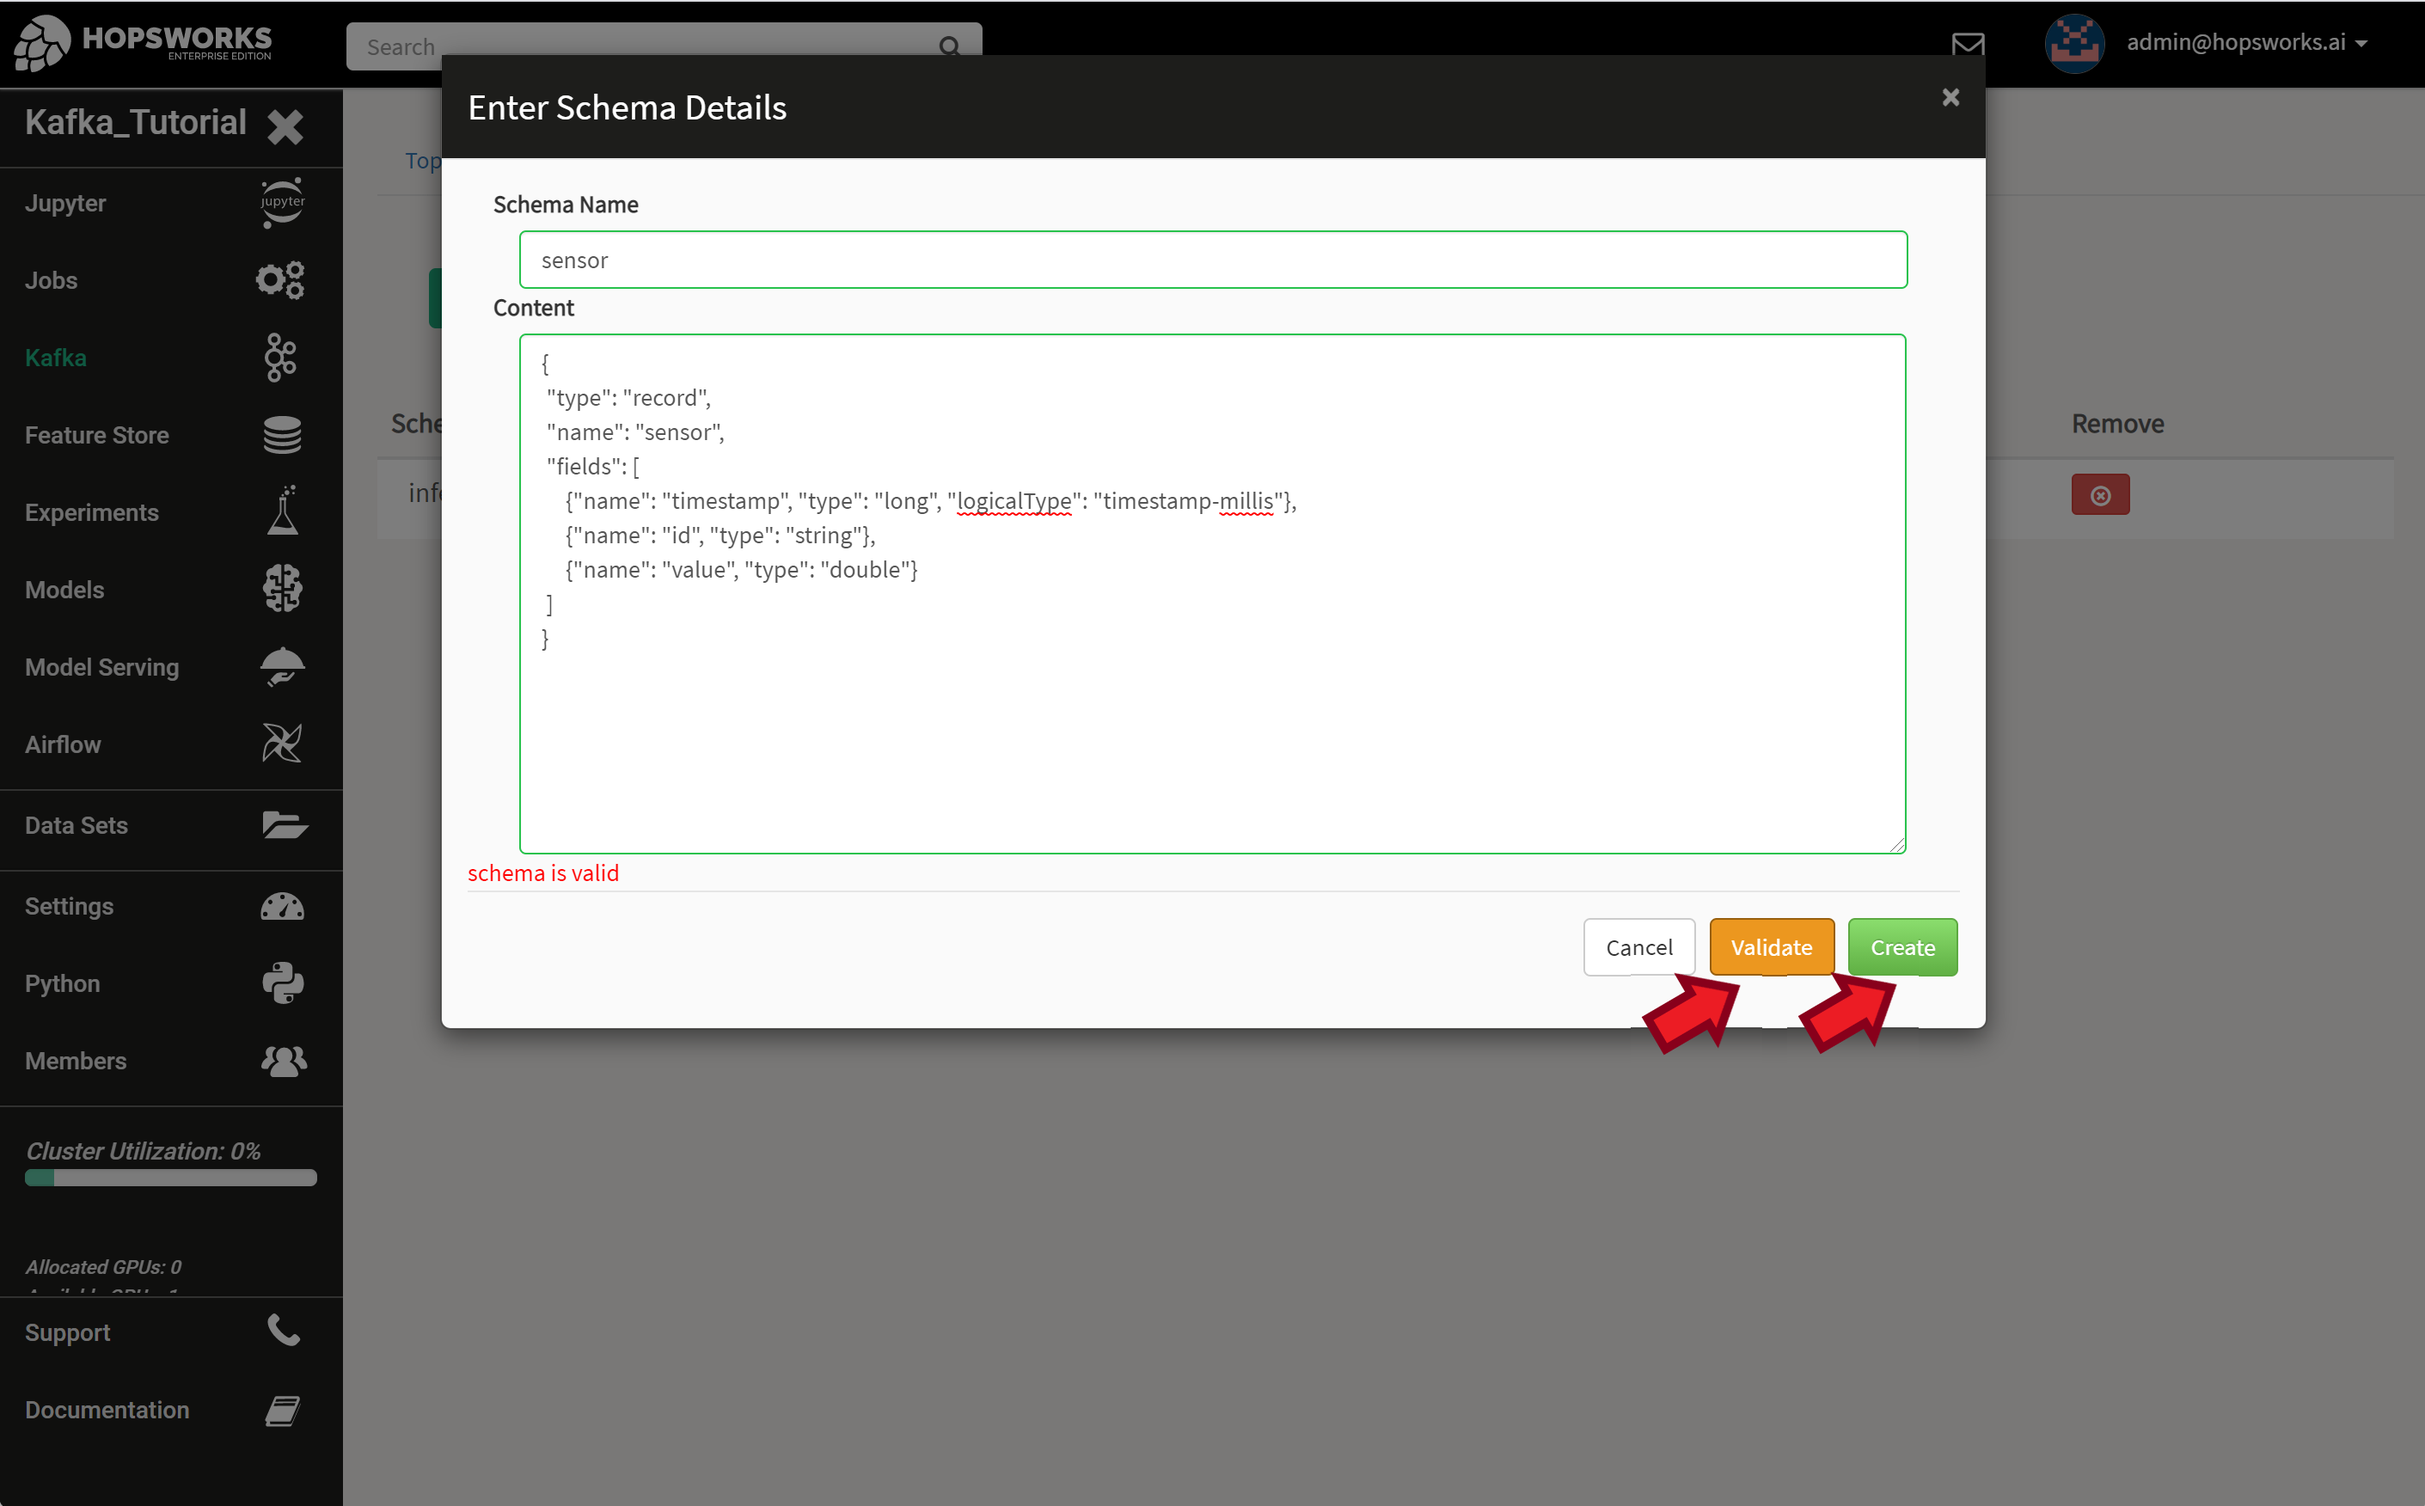
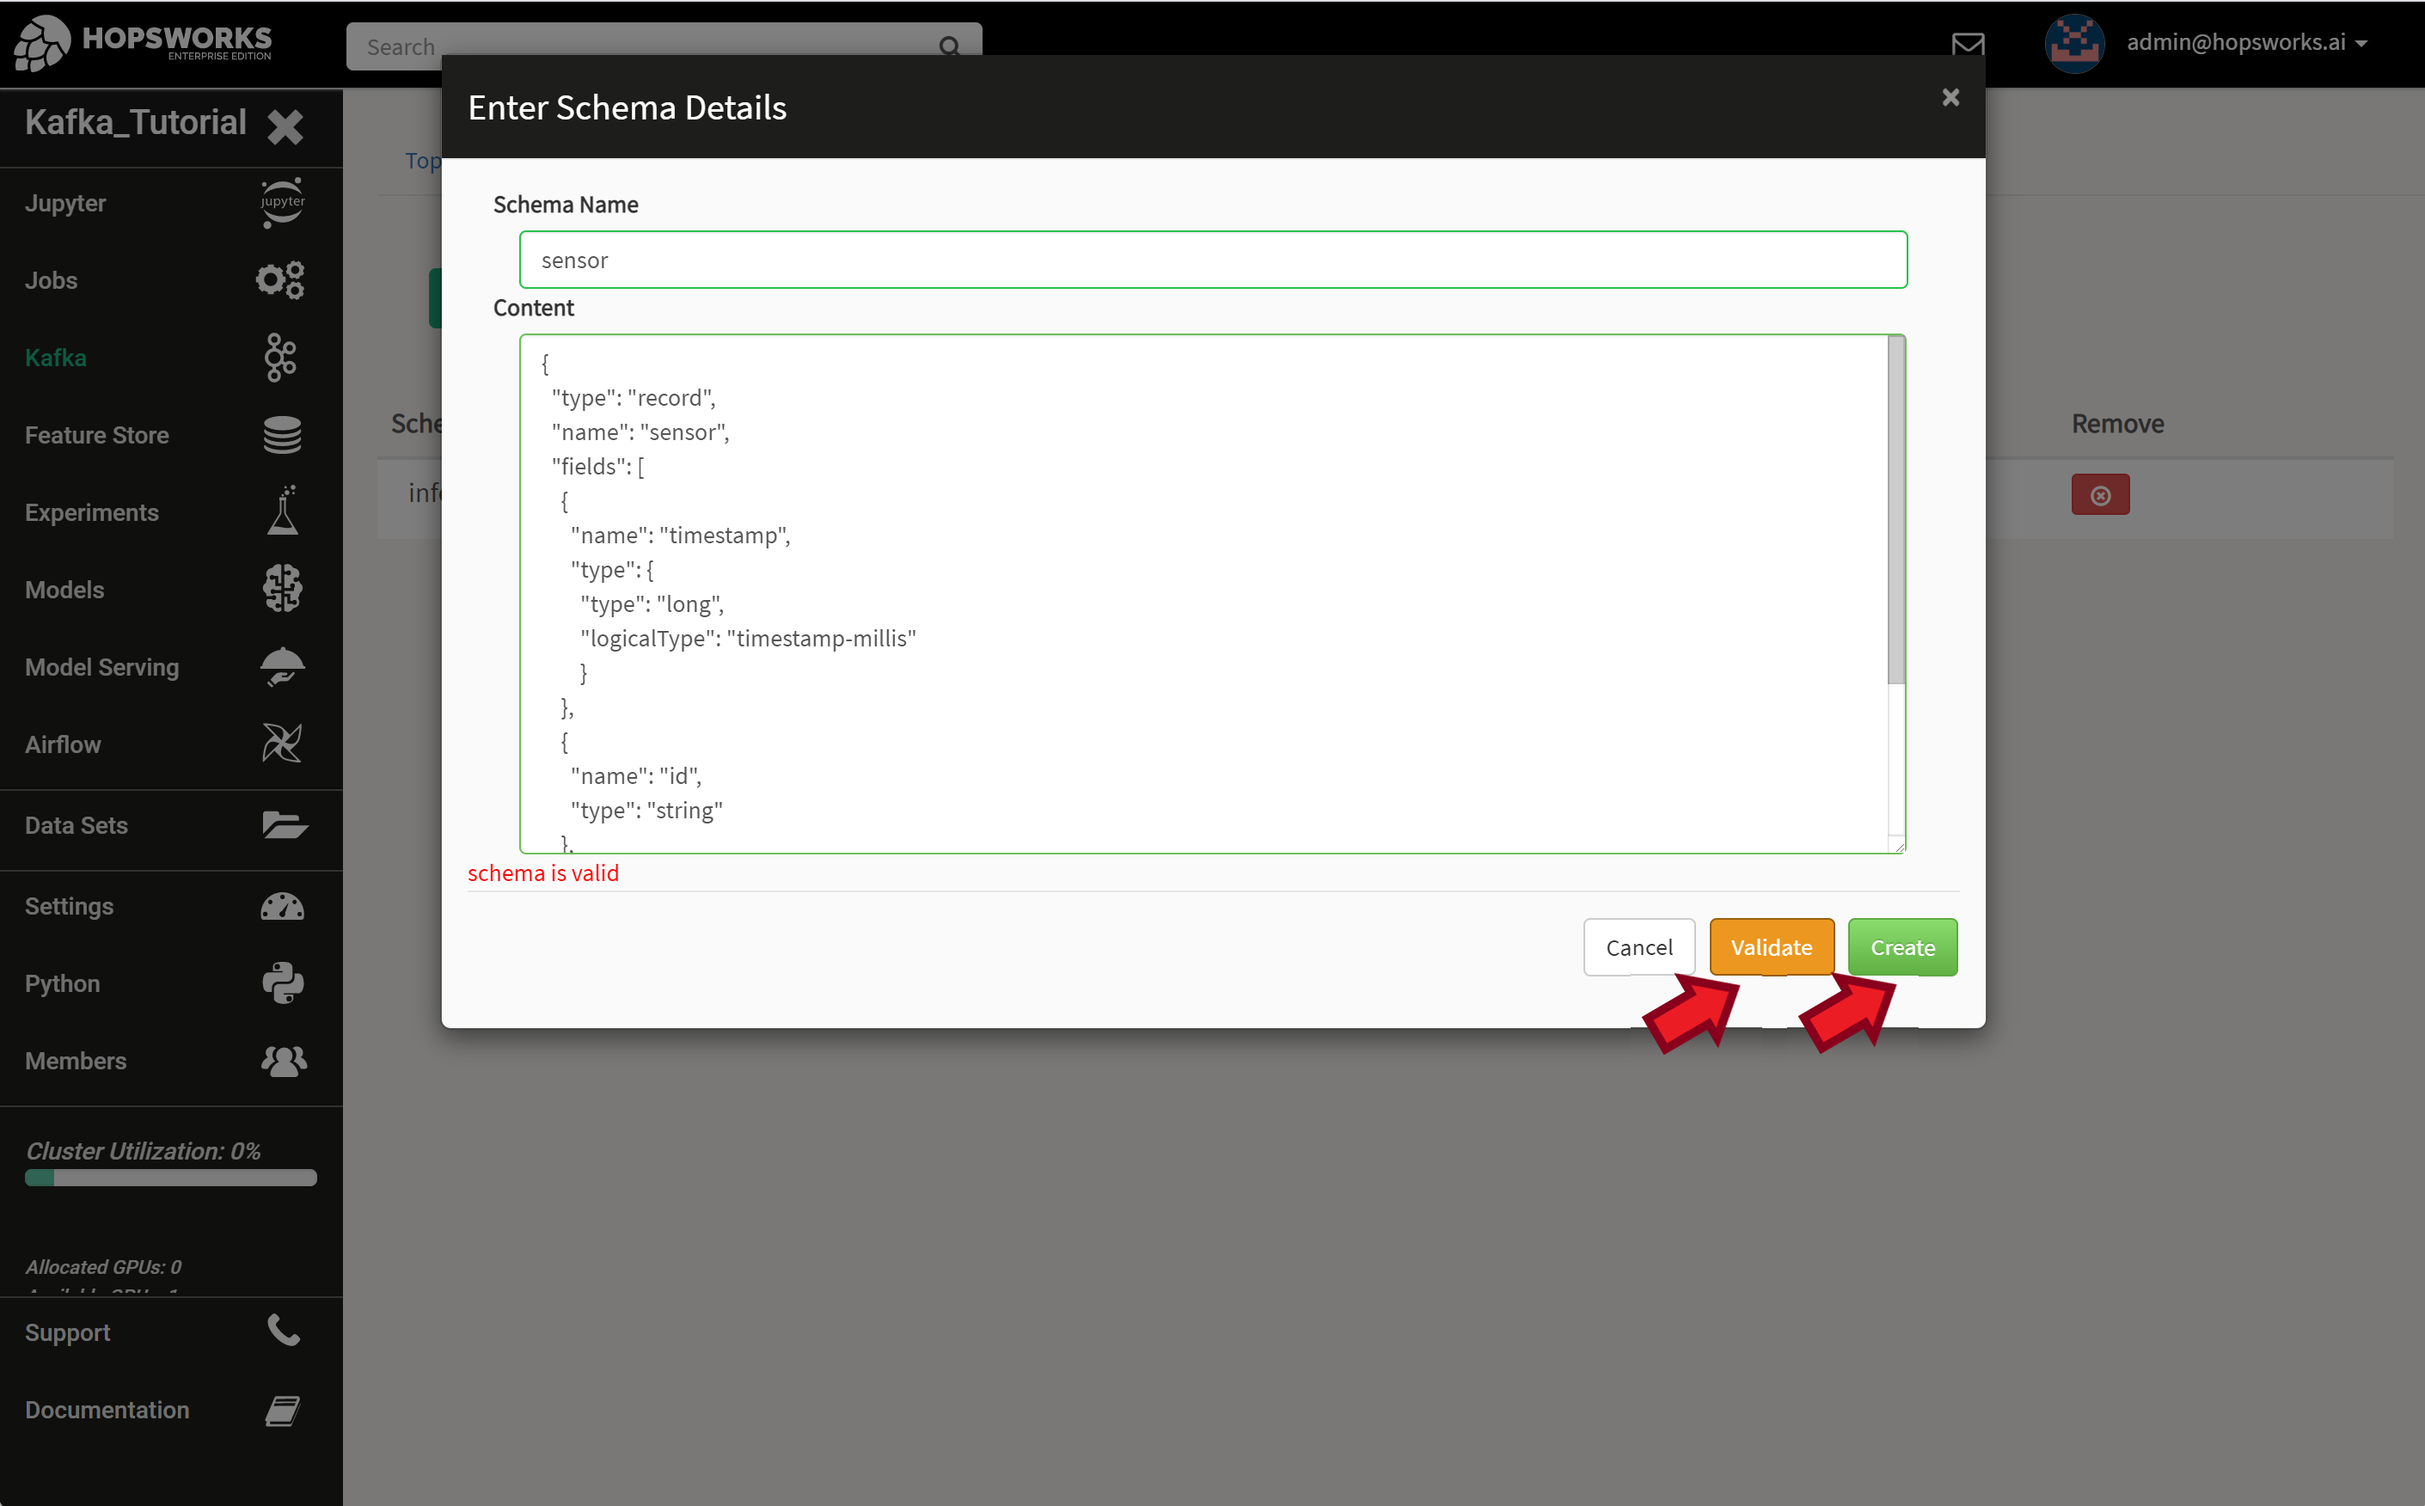
Fixed an error in the Avro schema

diff --git a/content/blogs/code/kafka/avro_consumer.py b/content/blogs/code/kafka/avro_consumer.py
@@ -24,12 +24,12 @@ from confluent_kafka import DeserializingConsumer
 from confluent_kafka.schema_registry import SchemaRegistryClient
 from confluent_kafka.schema_registry.avro import AvroDeserializer
 from confluent_kafka.serialization import StringDeserializer
-from confluent_kafka.schema_registry import record_subject_name_strategy
 from datetime import datetime, timedelta
 import toml
 import argparse
 from collections import deque
 import matplotlib.pyplot as plt
+
 
 class Event(object):
     """
@@ -38,7 +38,7 @@ class Event(object):
     Args:
         id (str): Sensor's id
 
-        timestamp (datetime): timestamp in milliseconds
+        timestamp (datetime): timestamp when the event happened
 
         value (double): Sensor's reading value
 
@@ -64,8 +64,8 @@ def dict_to_event(obj, ctx):
         return None
 
     return Event(id=obj['id'],
-                timestamp=datetime.fromtimestamp(obj['timestamp']),
-                value=obj['value'])
+                 timestamp=obj['timestamp'],
+                 value=obj['value'])
 
 
 def main():
@@ -89,8 +89,10 @@ def main():
       "fields": [
         {
           "name": "timestamp",
-          "type": "long",
-          "logicalType": "timestamp-millis"
+          "type": {
+            "type": "long",
+            "logicalType": "timestamp-millis"
+          }
         },
         {
           "name": "id",
@@ -113,7 +115,7 @@ def main():
     schema_registry_client = SchemaRegistryClient(schema_registry_conf)
 
     # Add the API key required by HopsWorks but not configurable through the confluent schema registry client
-    headers={'Authorization': 'ApiKey ' + conf['api']['key']}
+    headers = {'Authorization': 'ApiKey ' + conf['api']['key']}
     schema_registry_client._rest_client.session.headers.update(headers)
 
     # Initialize the avro deserializer for the value using the schema
@@ -141,7 +143,7 @@ def main():
     consumer.subscribe([conf['kafka']['topic']])
 
     # a list of buffers to store data for plotting
-    MAX_BUFFER = 1000 # max events to store for plotting, then graph will scroll
+    MAX_BUFFER = 1000  # max events to store for plotting, then graph will scroll
     buffer = [deque(maxlen=MAX_BUFFER) for x in range(args.sensors)]
 
     # Plotting

diff --git a/content/blogs/code/kafka/avro_producer.py b/content/blogs/code/kafka/avro_producer.py
@@ -39,7 +39,7 @@ class Event(object):
     Args:
         id (str): Sensor's id
 
-        timestamp (datetime): timestamp in milliseconds
+        timestamp (datetime): timestamp when the event happened
 
         value (double): Sensor's reading value
 
@@ -65,7 +65,7 @@ def event_to_dict(event, ctx):
 
     """
     return dict(id=event.id,
-                timestamp=datetime.timestamp(event.timestamp),
+                timestamp=event.timestamp,
                 value=event.value)
 
 
@@ -122,8 +122,10 @@ def main():
       "fields": [
         {
           "name": "timestamp",
-          "type": "long",
-          "logicalType": "timestamp-millis"
+          "type": {
+            "type": "long",
+            "logicalType": "timestamp-millis"
+          }
         },
         {
           "name": "id",
@@ -146,7 +148,7 @@ def main():
     schema_registry_client = SchemaRegistryClient(schema_registry_conf)
 
     # Add the API key required by HopsWorks but not configurable through the confluent schema registry client
-    headers={'Authorization': 'ApiKey ' + conf['api']['key']}
+    headers = {'Authorization': 'ApiKey ' + conf['api']['key']}
     schema_registry_client._rest_client.session.headers.update(headers)
 
     # Initialize the avro serializer for the value using the schema

diff --git a/content/blogs/kafka_hopsworks.rst b/content/blogs/kafka_hopsworks.rst
@@ -41,8 +41,10 @@ For more details about declaring Avro schemas and supported data types, check th
      "fields": [
        {
          "name": "timestamp",
-         "type": "long",
-         "logicalType": "timestamp-millis"
+         "type": {
+	   "type": "long",
+	   "logicalType": "timestamp-millis"
+	   }
        },
        {
          "name": "id",
@@ -54,6 +56,7 @@ For more details about declaring Avro schemas and supported data types, check th
        }
      ]
    }
+
 
 
 To register the above schema in Hopsworks, open the schemas settings in the Kafka tab and select **New Avro Schema**

diff --git a/README.md b/README.md
@@ -47,7 +47,7 @@ Warning! This will over write the master branch. For this to work, make sure tha
 
 ```bash
 # Publish
-invoke gh_pages
+invoke gh-pages
 ```
 
 
